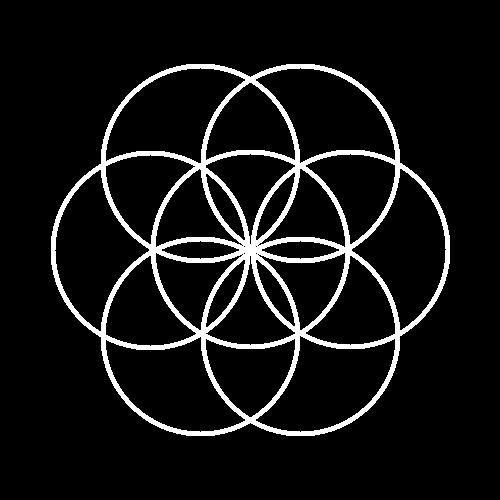
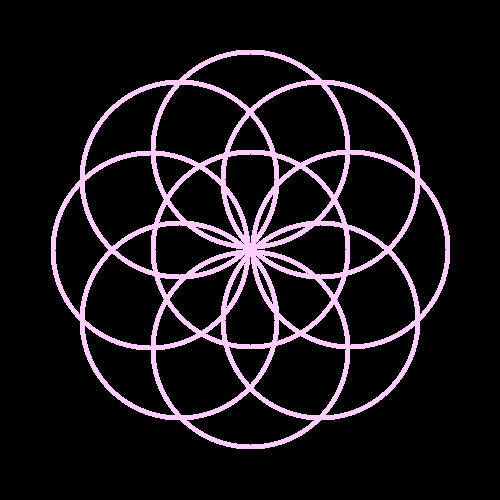
smallimg and mosaic

Changed region(s): [[0.09, 0.09, 0.9, 0.9]]

diff --git a/src/main.cpp b/src/main.cpp
@@ -167,7 +167,7 @@ void disk()
 // CERCLE
 void circle(sil::Image &image, int cx, int cy, int thickness)
 {
-    int r = 100 ;
+    int r = 100;
     for (int x = 0; x < image.width(); x++)
     {
         for (int y = 0; y < image.height(); y++)
@@ -175,7 +175,7 @@ void circle(sil::Image &image, int cx, int cy, int thickness)
             float dist2 = std::pow(x - cx, 2) + std::pow(y - cy, 2);
             if (dist2 < r * r && dist2 > std::pow(r - thickness, 2))
             {
-                image.pixel(x, y) = glm::vec3{1, 1, 1};
+                image.pixel(x, y) = glm::vec3{1, 0.8, 1};
             }
         }
     }
@@ -189,11 +189,13 @@ void rosace()
     int center_y = image.height() / 2.0f;
     int r = 100;
     int thickness = 5;
+    int nb_cercles = 8;
+    float pas = (2.0f * 3.14159265f) / nb_cercles;
 
     circle(image, 250, 250, 5);
-    for (int k = 0; k < 6; k++)
+    for (int k = 0; k < nb_cercles; k++)
     {
-        float angle = k * (3.14159265f / 3.0f);
+        float angle = k * pas;
         int a = center_x + r * std::cos(angle);
         int b = center_y + r * std::sin(angle);
         circle(image, a, b, thickness);
@@ -202,8 +204,44 @@ void rosace()
     image.save("output/rosace.png");
 }
 
+// RETRECIR IMAGE
+void smallimg(sil::Image &image, int div_size){
+    
+    sil::Image small_image{image.width()/div_size, image.height()/div_size};
+    for (int x = 0; x < image.width(); x += div_size)
+    {
+        for (int y{0}; y < image.height(); y += div_size)
+        {
+            small_image.pixel(x/div_size, y/div_size) = image.pixel(x, y);
+        }
+    }
+    small_image.save("output/smallimg.png");
+}
+
+// MOSAIQUE
+void mosaic(sil::Image &image, int size)
+{
+    sil::Image mosaic_image{image.width(), image.height()};
+
+    int small_w = image.width() / size;
+    int small_h = image.height() / size;
+
+    for (int x = 0; x < mosaic_image.width(); x++)
+    {
+        for (int y = 0; y < mosaic_image.height(); y++)
+        {
+            int src_x = (x % small_w) * size;
+            int src_y = (y % small_h) * size;
+
+            mosaic_image.pixel(x, y) = image.pixel(src_x, src_y);
+        }
+    }
+
+    mosaic_image.save("output/mosaic.png");
+}
+
 int main()
 {
     sil::Image image{"images/photo.jpg"};
-    rosace();
+    mosaic(image, 4);
 }
